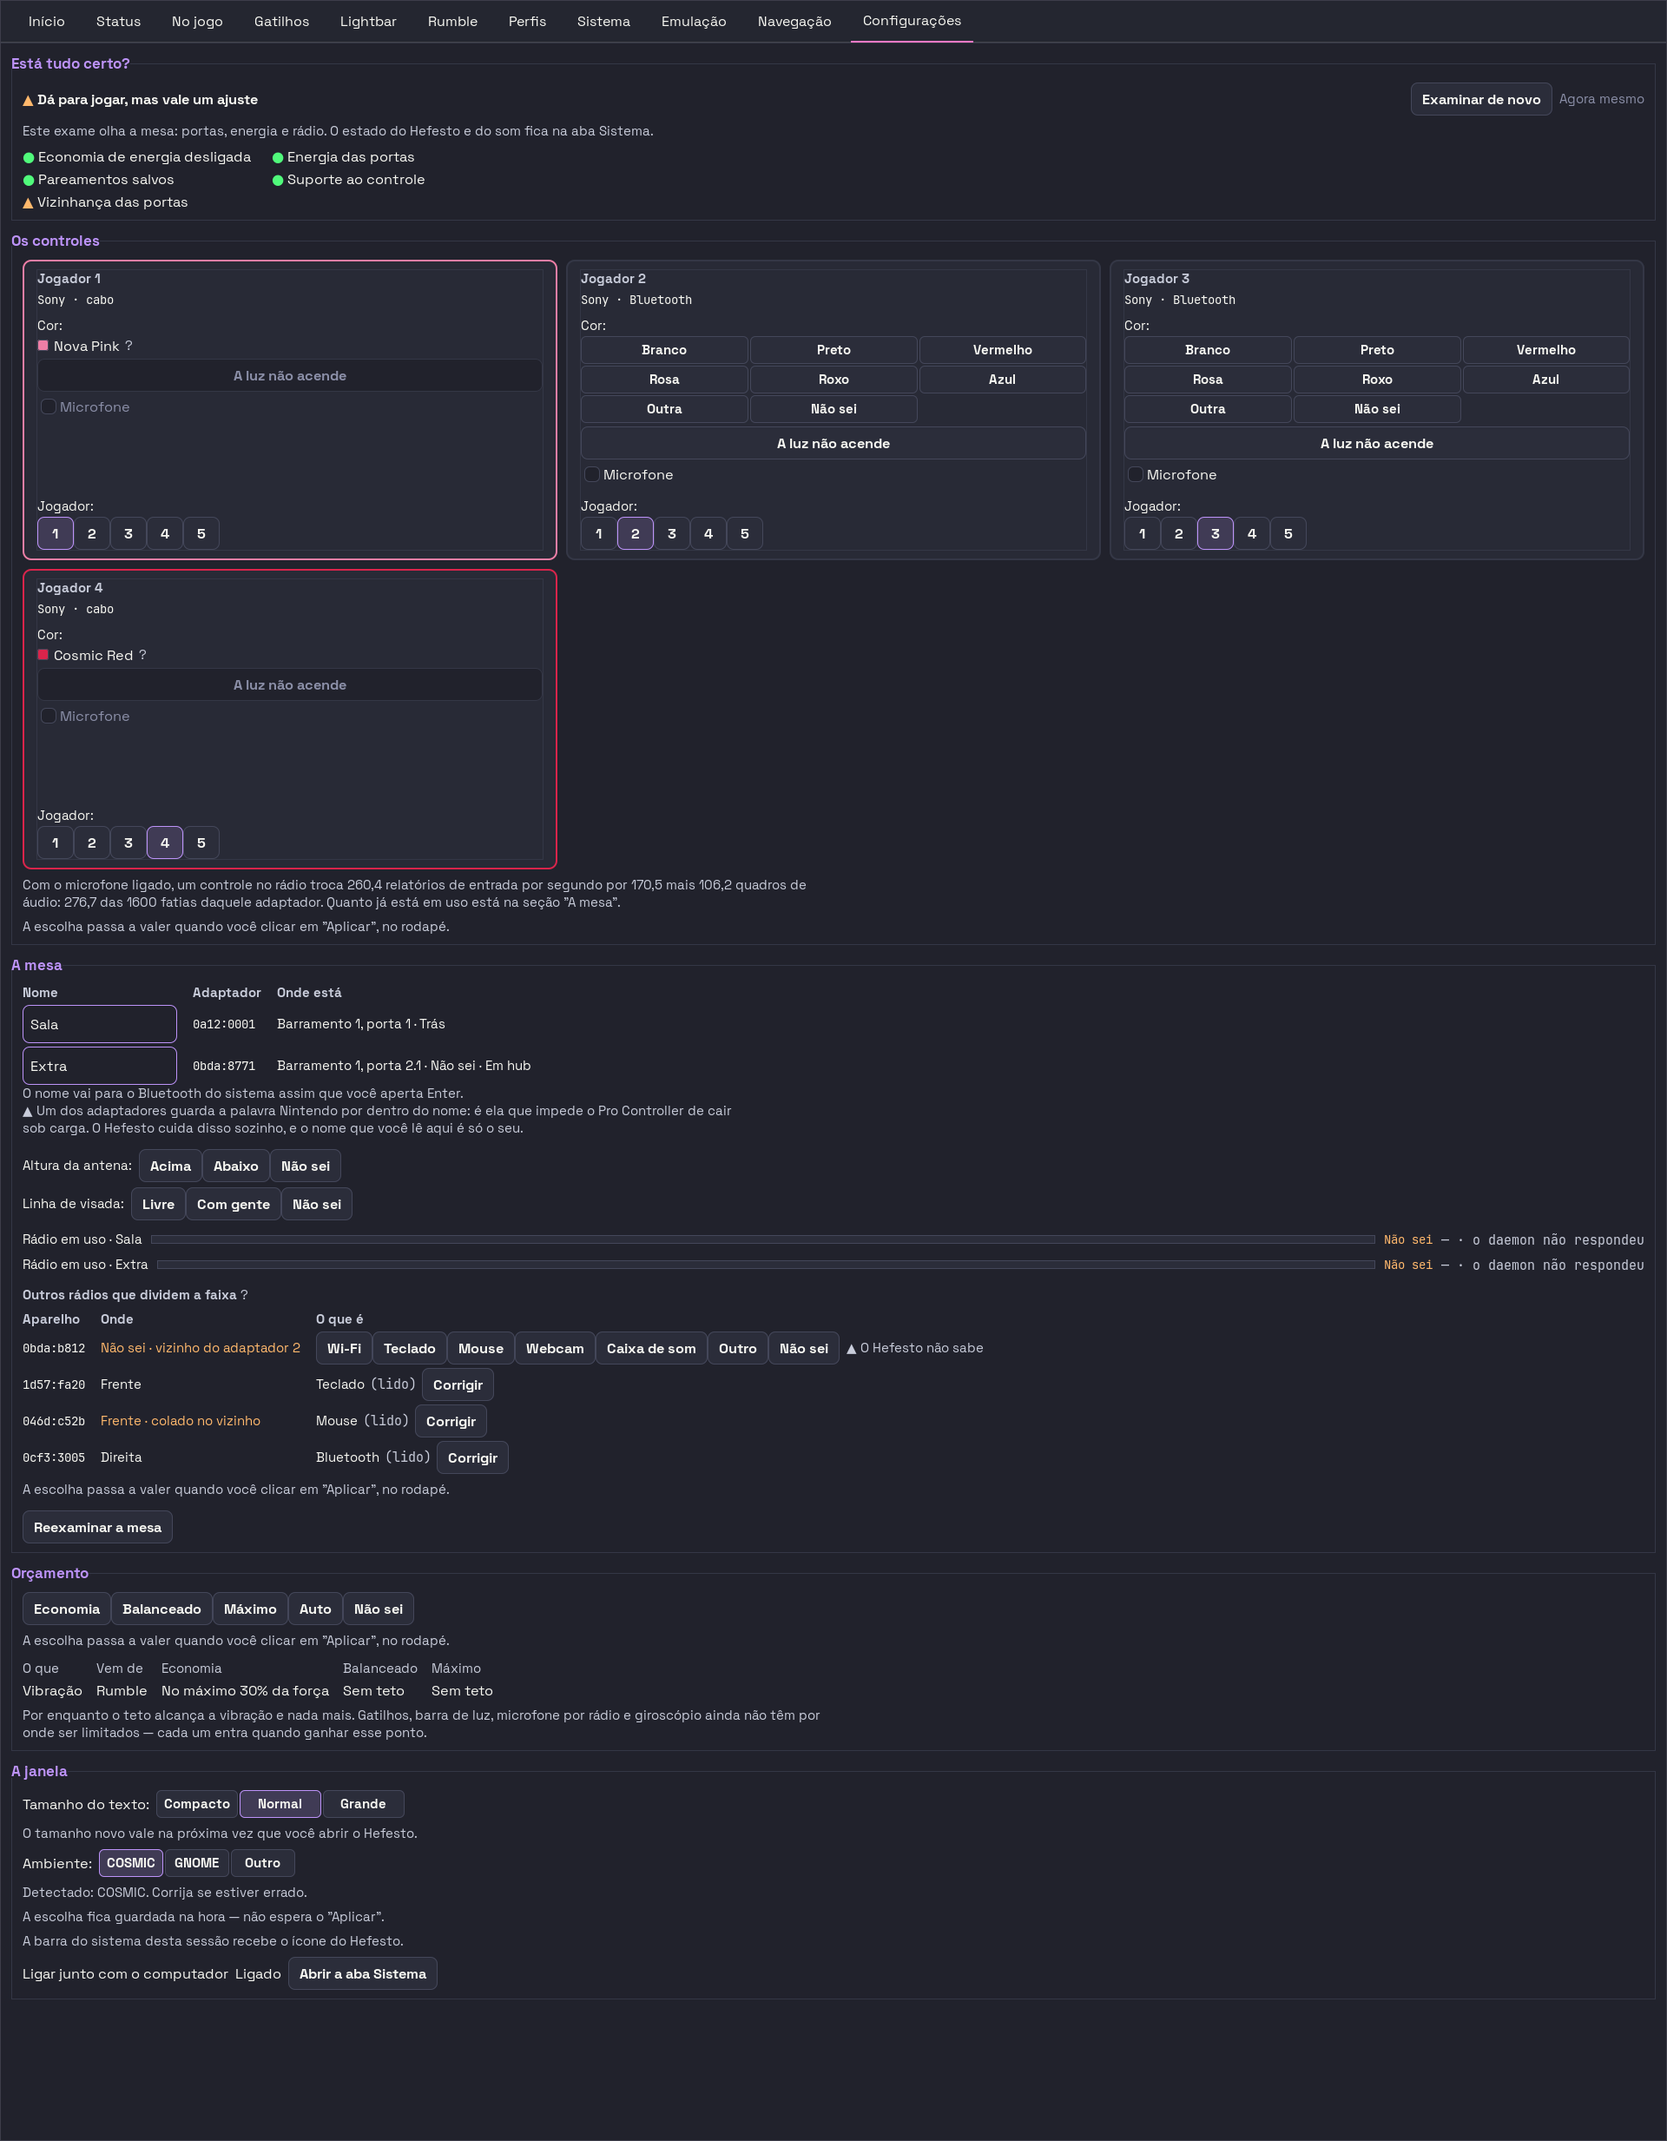
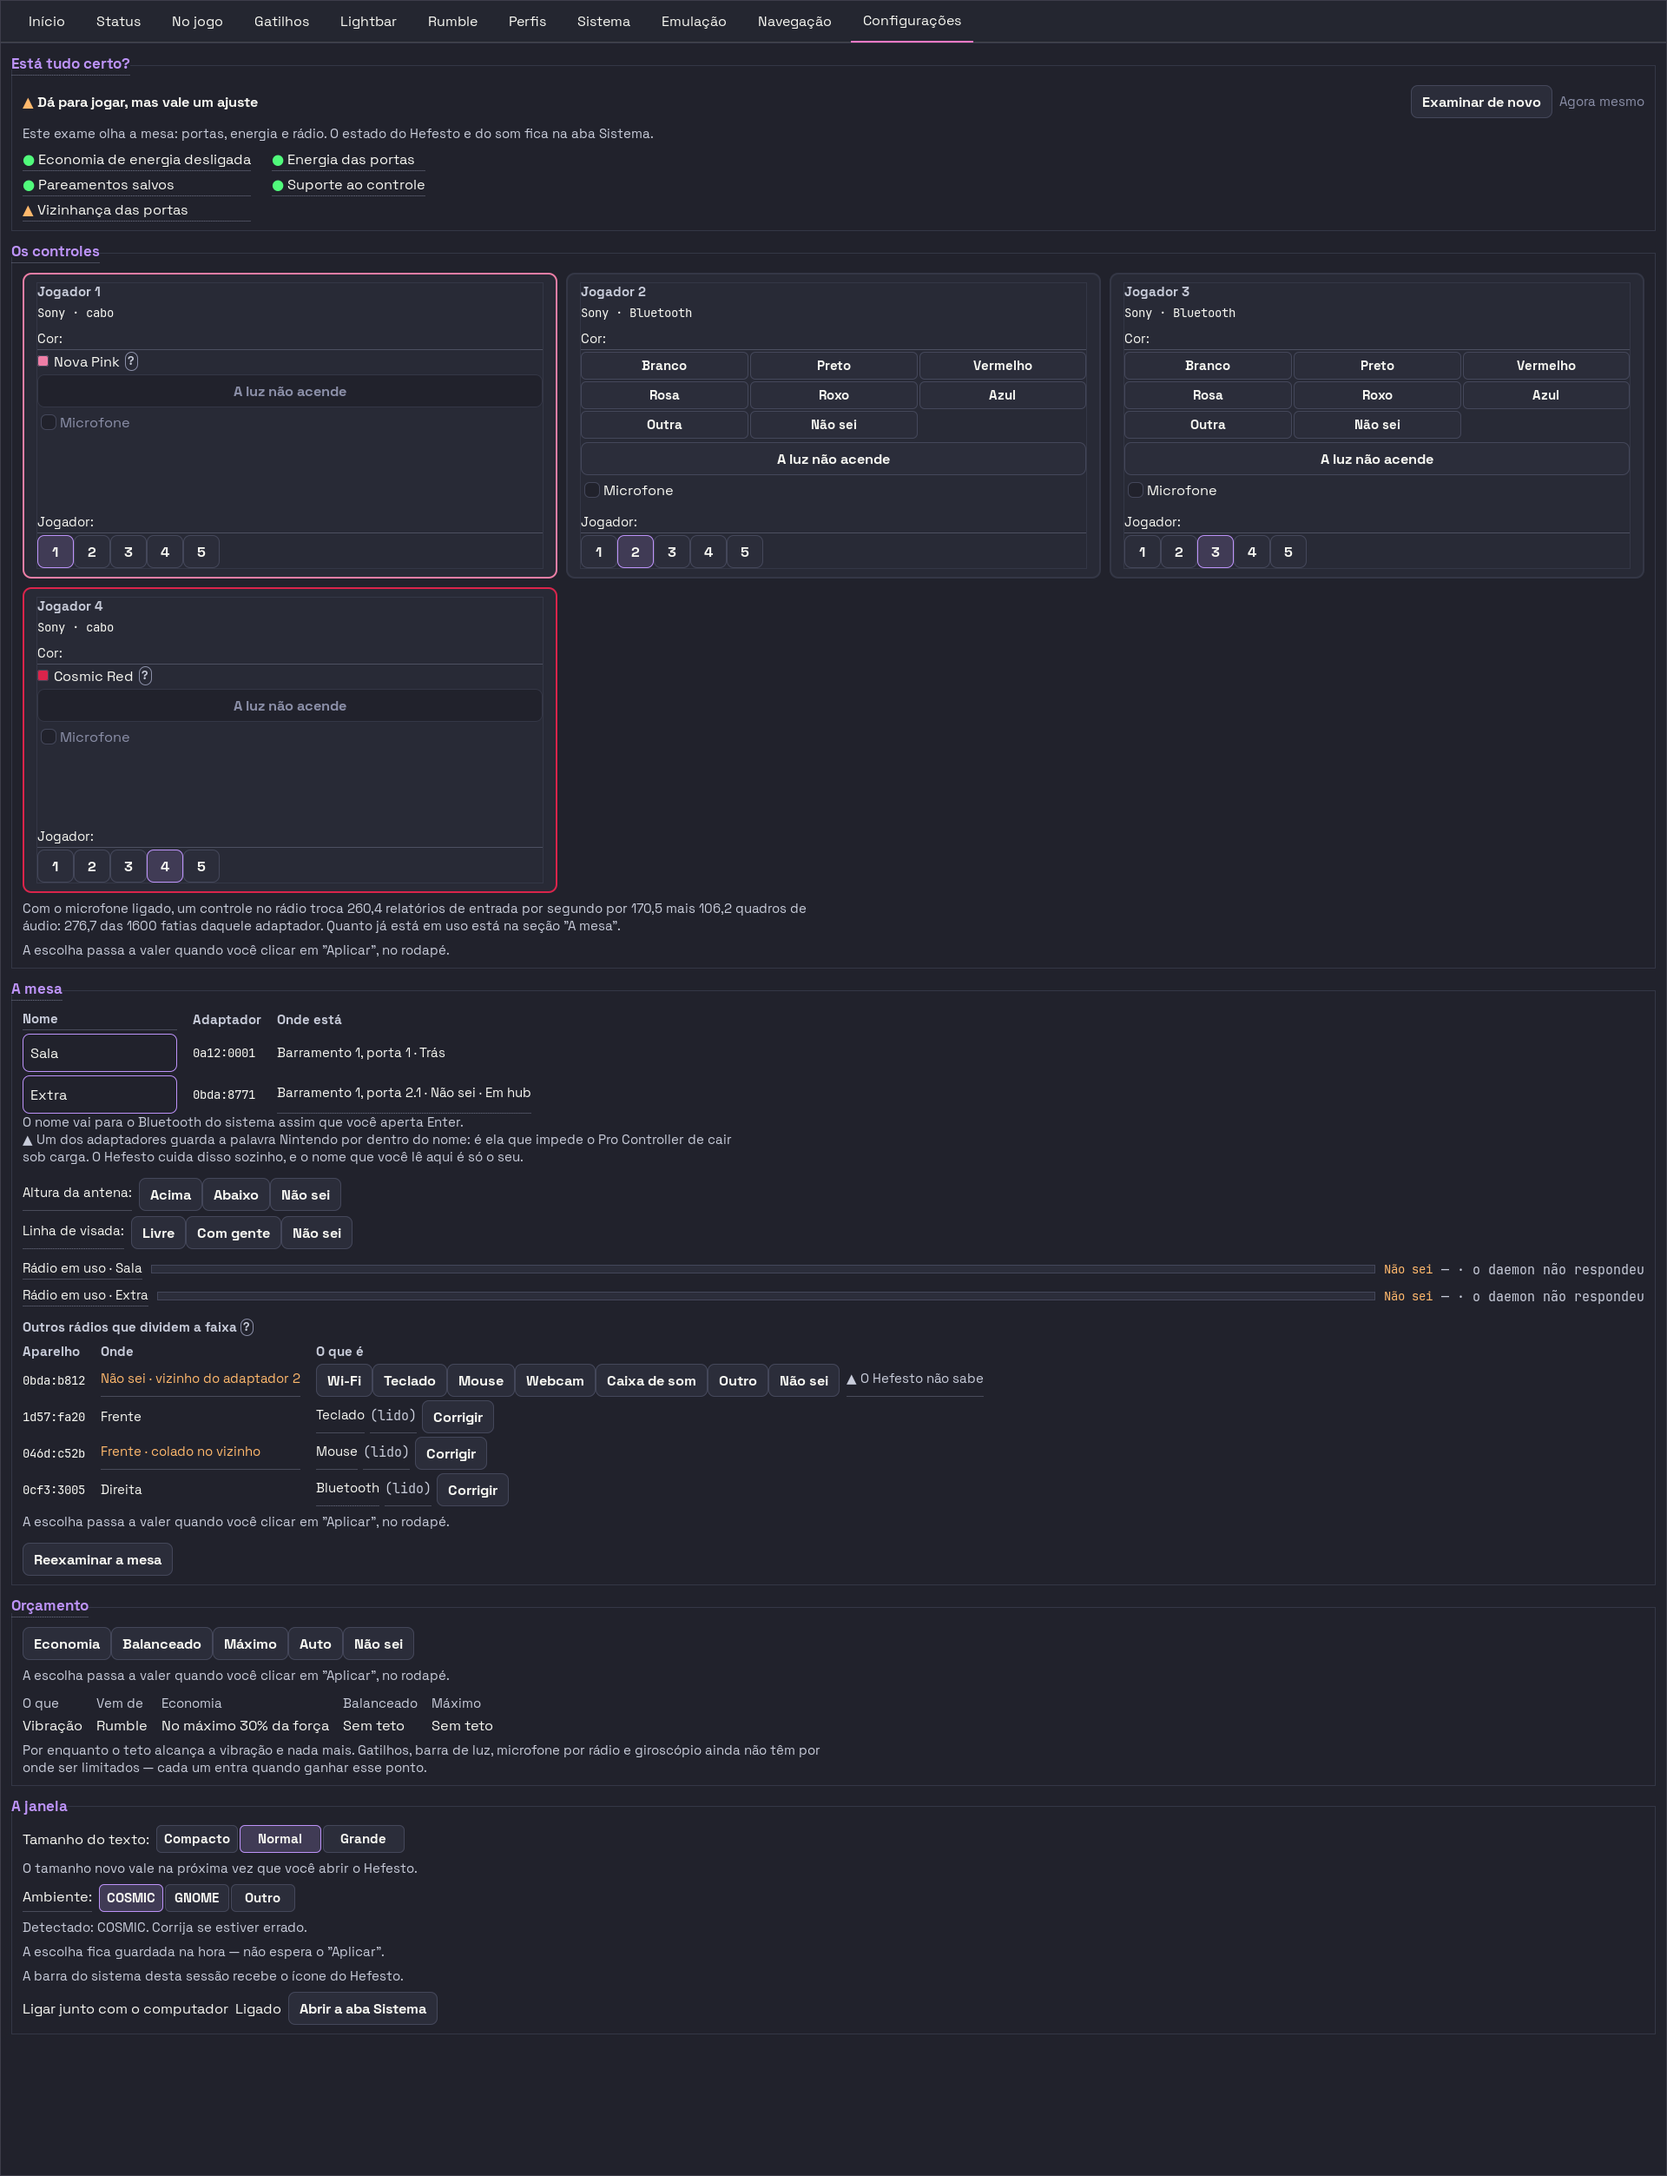
docs(fotos): a aba Configurações estava fotografada de antes do conserto do fechamento
scripts/gui-captura/retratar_abas.py regenerado — a suíte completa achou a
divergência (test_as_fotos_acompanham_a_versao.py): a interface mudou em
2cfcb21 (o conserto de "Aplicar e fechar" gravava e recusava fechar) e as
fotos publicadas eram de antes. Só as duas imagens de Configurações mudaram.

diff --git a/painel.html b/painel.html
@@ -163,7 +163,7 @@ footer a { color: var(--color-accent); }
 <body>
 <div class="envelope">
 
-  <p class="selo">gerado em 24/08/2026 às 04:13 · branch dev · 2b0241d</p>
+  <p class="selo">gerado em 24/08/2026 às 04:26 · branch dev · 8dbd16b</p>
   <h1><b>Hefesto</b> · painel do projeto</h1>
   <p class="lede">O irmão do <a href="specs.html">mapa de canais</a>. Aquele responde
      <em>o que o aparelho entende</em>; este responde <em>onde o projeto está</em>.
@@ -171,7 +171,7 @@ footer a { color: var(--color-accent); }
      não terem como discordar.</p>
 
   <div class="grade"><div class="kpi"><div class="n ac">9</div><div class="l">decisões esperando você</div></div><div class="kpi"><div class="n ac">287</div><div class="l">arquivos de sprint na árvore</div></div><div class="kpi"><div class="n lac">47</div><div class="l">não citados no SPRINT_ORDER</div></div><div class="kpi"><div class="n frio">110</div><div class="l">chaves no mapa de canais</div></div><div class="kpi"><div class="n lac">27</div><div class="l">features que divergem cabo × rádio</div></div><div class="kpi"><div class="n mal">243</div><div class="l">linhas sem teste que morda</div></div><div class="kpi"><div class="n mal">11.686</div><div class="l">testes verdes</div></div><div class="kpi"><div class="n mal">10/12</div><div class="l">portões verdes</div></div></div>
-  
+  <div class="aviso"><p><b>Os números caros estão velhos.</b> medido 23/08 às 22:16 · há 0 dia(s) — VELHO. A árvore andou desde então; o que está abaixo descreve o passado. Rode <code>python3 scripts/gerar-painel.py --completo</code>.</p></div>
 
   <h2>O que espera você <span class="co">9 decisão(ões) aberta(s)</span></h2>
   <p class="lede" style="font-size:var(--text-sm);margin-top:var(--space-2xs)">
@@ -210,7 +210,7 @@ footer a { color: var(--color-accent); }
 <tr><td>specs.html em dia</td><td class="dado ok">verde</td><td class="quieto">specs.html: atualizado (confere com o CSV, com o caderno de ensaios e com os três desenhos)</td></tr>
     </tbody>
   </table></div>
-  <p class="lede" style="font-size:var(--text-sm)">medido 23/08 às 22:16 · há 6 h.
+  <p class="lede" style="font-size:var(--text-sm)">medido 23/08 às 22:16 · há 0 dia(s) — VELHO.
      Portão verde não prova que ele mede o que promete — a casa já achou três
      instrumentos falsos num dia só. Verde aqui quer dizer <em>não acusou</em>.</p>
 
@@ -218,7 +218,7 @@ footer a { color: var(--color-accent); }
   <div class="grade">
     <div class="kpi"><div class="n ac">287</div><div class="l">arquivos</div></div>
     <div class="kpi"><div class="n lac">102</div><div class="l">carregam a palavra ABERTA</div></div>
-    <div class="kpi"><div class="n ok">55</div><div class="l">carregam CONCLUÍDA ou FECHADA</div></div>
+    <div class="kpi"><div class="n ok">56</div><div class="l">carregam CONCLUÍDA ou FECHADA</div></div>
     <div class="kpi"><div class="n quieto">33</div><div class="l">índices</div></div>
     <div class="kpi"><div class="n frio">207</div><div class="l">citadas no SPRINT_ORDER</div></div>
     <div class="kpi"><div class="n mal">47</div><div class="l">fora da fila</div></div>
@@ -252,8 +252,8 @@ footer a { color: var(--color-accent); }
        idade ao lado. <strong>Ausência de medição é declarada, nunca preenchida com
        zero</strong> — é a mesma regra do mapa de canais, e existe porque zero pinta
        verde.</p>
-    <p>Árvore: 3 arquivo(s) com mudança não commitada em
-       <code>2b0241d</code> — <em>fix(ondas): a premissa que travava a Instalação atrás de 11 ondas era falsa</em>.</p>
+    <p>Árvore: 5 arquivo(s) com mudança não commitada em
+       <code>8dbd16b</code> — <em>merge(frente-17): AUDITORIA-DE-PERDA-01 — E1 a E4, os três portões que não mediam</em>.</p>
   </footer>
 
 </div>
